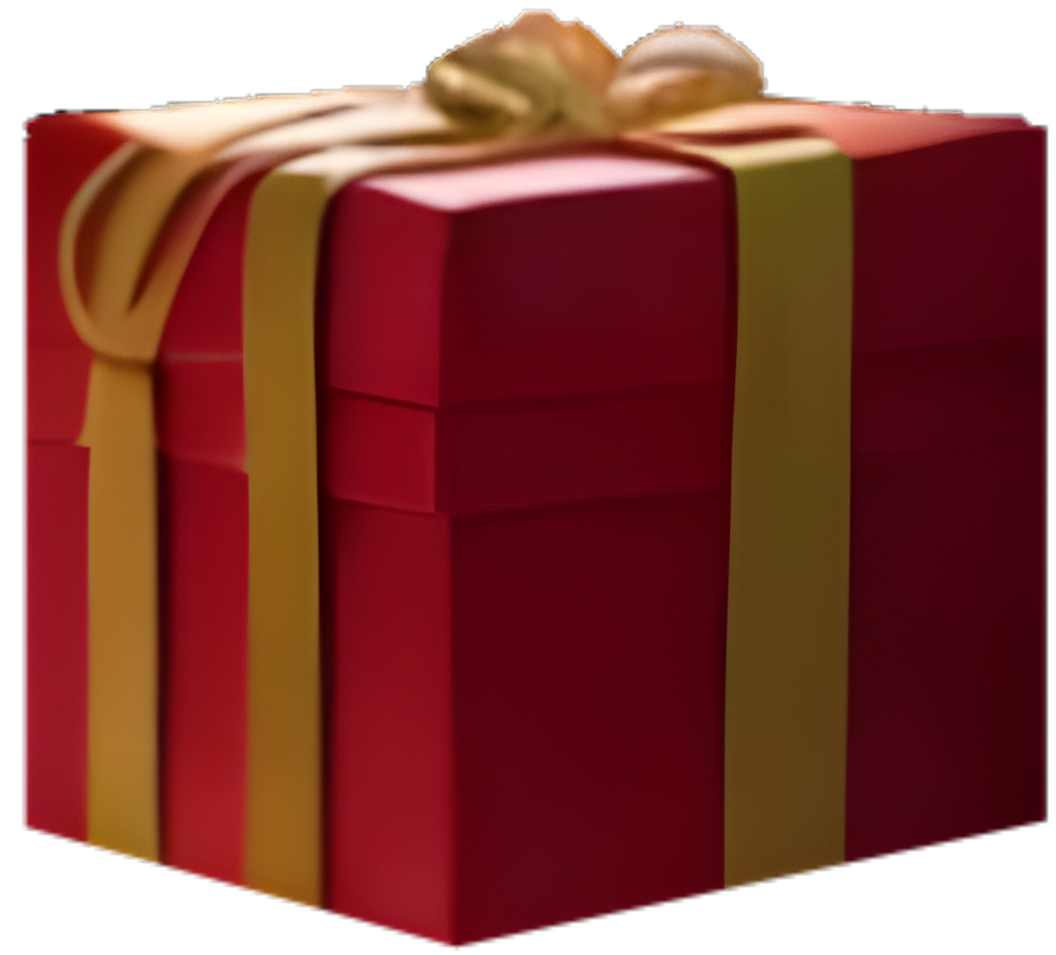
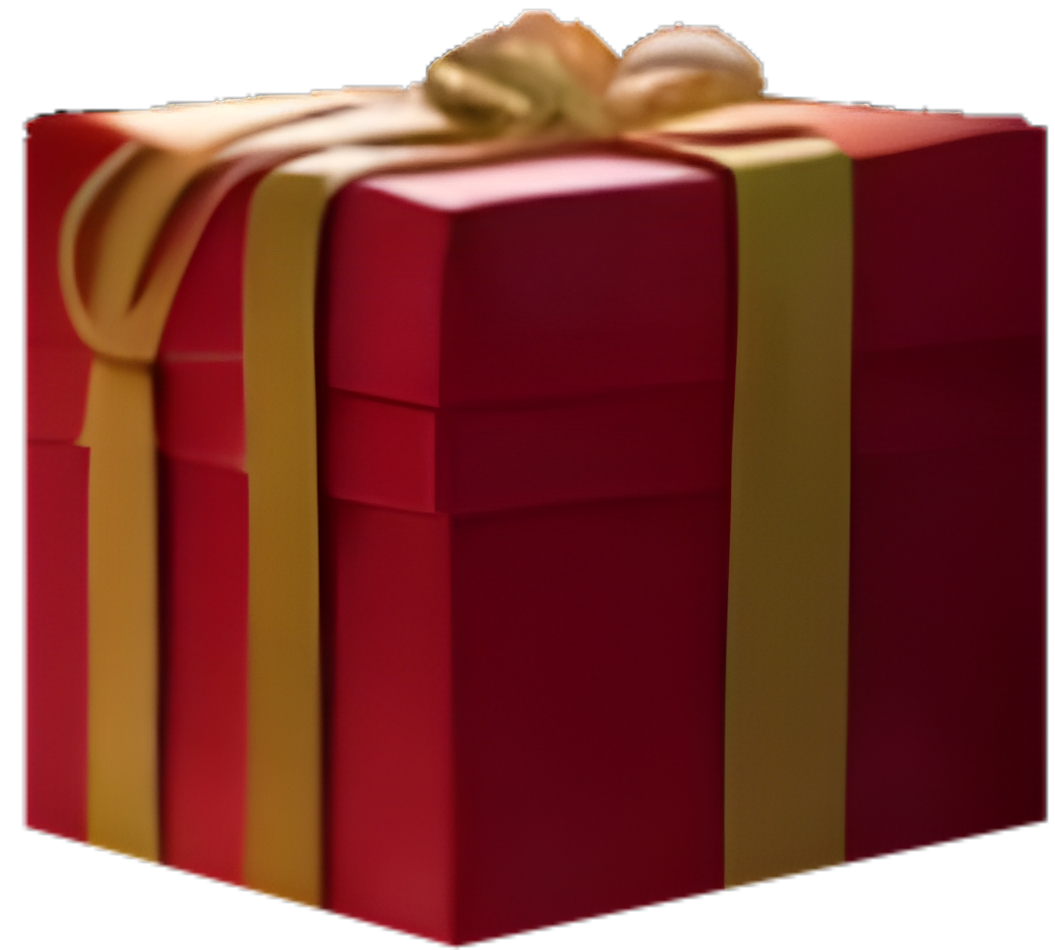
The gift at home page is moving up and down

diff --git a/lib/src/widgets/home_screen_widgets/giving_gift.dart b/lib/src/widgets/home_screen_widgets/giving_gift.dart
@@ -2,6 +2,7 @@ import 'package:christmas_2024/src/config/themes/app_theme.dart';
 import 'package:christmas_2024/src/gifts_viewmodel.dart';
 import 'package:christmas_2024/src/utils/extensions/build_context_extensions.dart';
 import 'package:christmas_2024/src/utils/resources/GiftModel.dart';
+import 'package:christmas_2024/src/widgets/home_screen_widgets/closed_box.dart';
 import 'package:flutter/material.dart';
 import 'package:provider/provider.dart';
 
@@ -13,45 +14,74 @@ class GivingGift extends StatefulWidget {
 }
 
 class _GivingGiftState extends State<GivingGift> {
+  bool isDialogOpen = false;
+
   Widget _buildContent() {
     GiftsViewmodel giftsViewmodel =
         Provider.of<GiftsViewmodel>(context, listen: false);
     return GestureDetector(
       onTap: () {
+        setState(() {
+          isDialogOpen = true;
+        });
+
         GiftModel gift = giftsViewmodel.giveRandomGift();
 
         showDialog(
             context: context,
             builder: (BuildContext ctx) {
-              return AlertDialog(
-                alignment: Alignment.center,
-                actionsAlignment: MainAxisAlignment.center,
-                title: Text(gift.giftTitle),
-                content: Text(
-                  gift.giftDescription,
-                  textAlign: TextAlign.center,
-                ),
-                actions: <Widget>[
-                  TextButton(
-                    style: TextButton.styleFrom(
-                      textStyle: context.textTheme.bodyMedium,
-                      foregroundColor: AppTheme.lightYelllow,
-                    ),
-                    child: const Text(
-                      'Got It 🎅',
-                      style: TextStyle(color: AppTheme.yellowColor),
-                    ),
-                    onPressed: () {
-                      Navigator.of(context).pop();
-                    },
+              return WillPopScope(
+                onWillPop: () async {
+                  setState(() {
+                    isDialogOpen = false;
+                  });
+                  Navigator.of(context).pop();
+                  return true;
+                },
+                child: AlertDialog(
+                  alignment: Alignment.center,
+                  actionsAlignment: MainAxisAlignment.center,
+                  title: Text(gift.giftTitle),
+                  content: Text(
+                    gift.giftDescription,
+                    textAlign: TextAlign.center,
                   ),
-                ],
+                  actions: <Widget>[
+                    TextButton(
+                      style: TextButton.styleFrom(
+                        textStyle: context.textTheme.bodyMedium,
+                        foregroundColor: AppTheme.lightYelllow,
+                      ),
+                      child: const Text(
+                        'Got It 🎅',
+                        style: TextStyle(color: AppTheme.yellowColor),
+                      ),
+                      onPressed: () {
+                        setState(() {
+                          isDialogOpen = false;
+                        });
+                        Navigator.of(context).pop();
+                      },
+                    ),
+                  ],
+                ),
               );
             });
       },
+      child: isDialogOpen ? _buildOpenBox() : const ClosedBox(),
+    );
+  }
+
+
+  Widget _buildOpenBox() {
+    return Padding(
+      padding: const EdgeInsets.only(
+        left: 58,
+        // top: 15,
+      ),
       child: Image.asset(
-        'lib/assets/images/gift.png',
-        width: 110,
+        'lib/assets/images/gift_opened.png',
+        width: 250,
       ),
     );
   }

diff --git a/lib/src/widgets/home_screen_widgets/closed_box.dart b/lib/src/widgets/home_screen_widgets/closed_box.dart
@@ -1,0 +1,53 @@
+import 'package:flutter/material.dart';
+
+class ClosedBox extends StatefulWidget {
+  const ClosedBox({super.key});
+
+  @override
+  State<ClosedBox> createState() => ClosedBoxState();
+}
+
+class ClosedBoxState extends State<ClosedBox> with TickerProviderStateMixin {
+  late AnimationController _controller;
+  late Animation<double> _animation;
+
+  @override
+  void initState() {
+    super.initState();
+
+    _controller = AnimationController(
+      vsync: this,
+      duration: const Duration(seconds: 1),
+    );
+
+    _animation = Tween(begin: 0.0, end: 9.0).animate(
+      CurvedAnimation(
+        parent: _controller,
+        curve: Curves.easeInOut,
+      ),
+    );
+
+    _animation.addListener(() {
+      setState(() {});
+    });
+
+    _controller.repeat(reverse: true);
+  }
+
+  @override
+  Widget build(BuildContext context) {
+    return Transform.translate(
+      offset: Offset(0.0, _animation.value),
+      child: Image.asset(
+        'lib/assets/images/gift.png',
+        width: 110,
+      ),
+    );
+  }
+
+  @override
+  void dispose() {
+    _controller.dispose();
+    super.dispose();
+  }
+}

diff --git a/lib/src/widgets/ui/bottom_navigation_bar_ui.dart b/lib/src/widgets/ui/bottom_navigation_bar_ui.dart
@@ -21,7 +21,7 @@ class _BottomNavigationBarUiState extends State<BottomNavigationBarUi> {
   @override
   Widget build(BuildContext context) {
     return SizedBox(
-      height: 50,
+      height: 48,
       child: ClipRRect(
         borderRadius: const BorderRadius.only(
           topLeft: Radius.circular(30),

diff --git a/lib/src/screens/home_screen.dart b/lib/src/screens/home_screen.dart
@@ -59,7 +59,7 @@ class _HomeScreenState extends State<HomeScreen> {
       child: Padding(
         padding: const EdgeInsets.symmetric(
           horizontal: 12.0,
-          vertical: 5,
+          vertical: 9,
         ),
         child: Column(
           children: [

diff --git a/lib/src/widgets/home_screen_widgets/santa.dart b/lib/src/widgets/home_screen_widgets/santa.dart
@@ -22,7 +22,7 @@ class _SantaState extends State<Santa> {
           child: Image.asset(
             'lib/assets/images/santa.png',
             color: AppTheme.lightWhiteColor,
-            width: 165,
+            width: 185,
           ),
         ),
       ],
